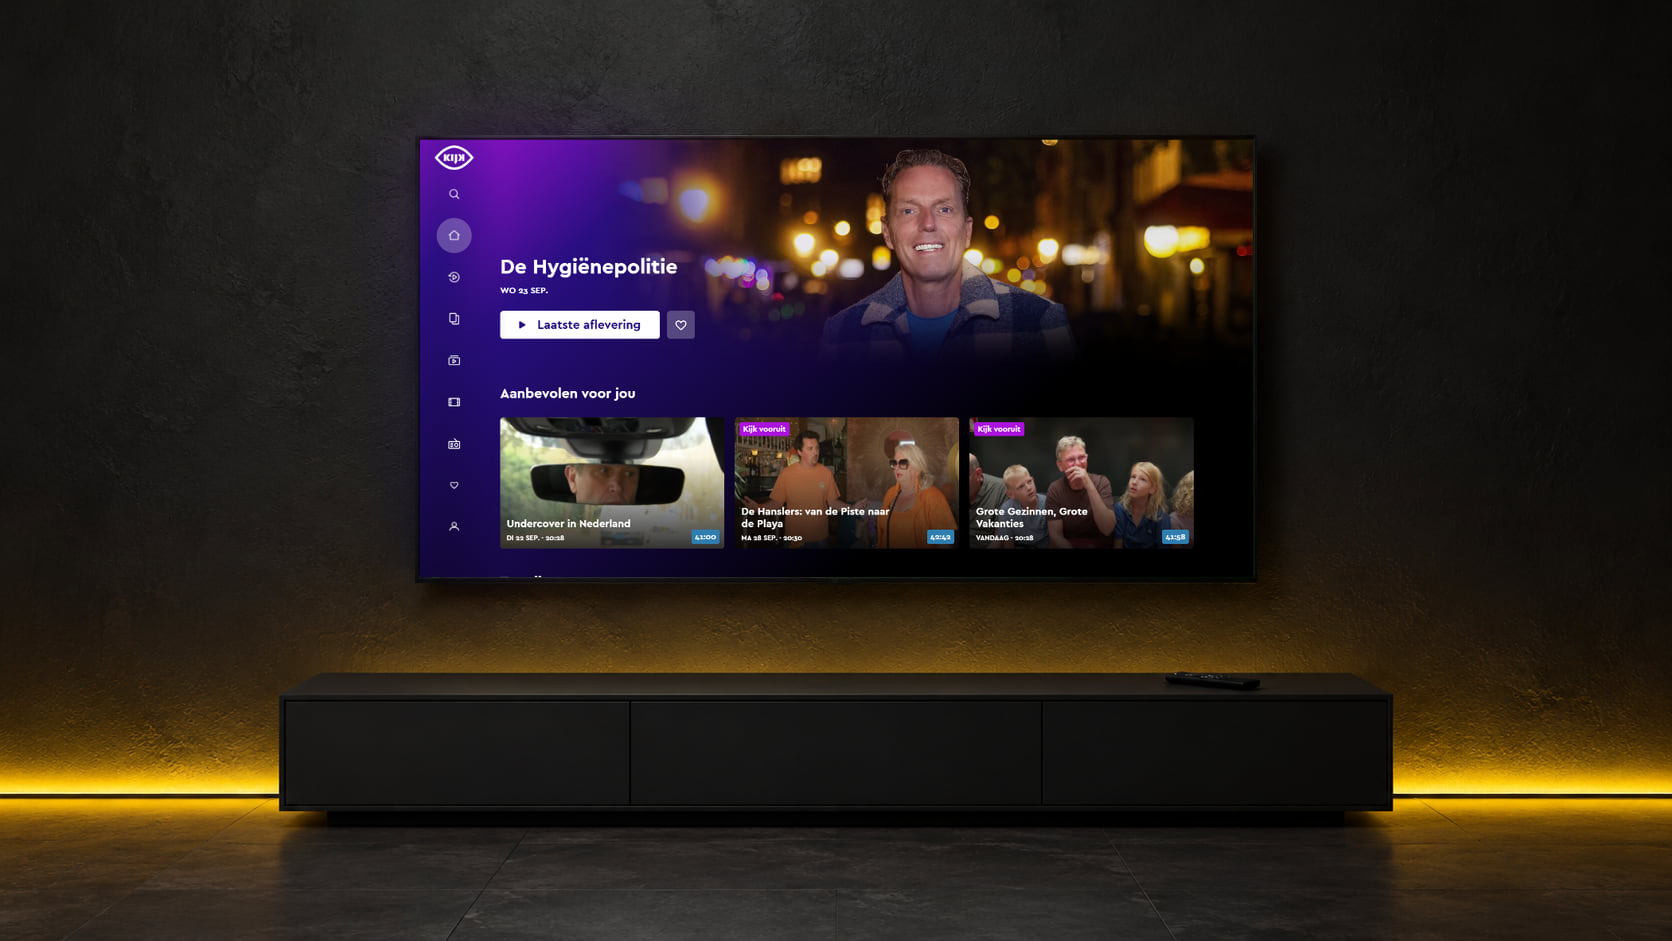
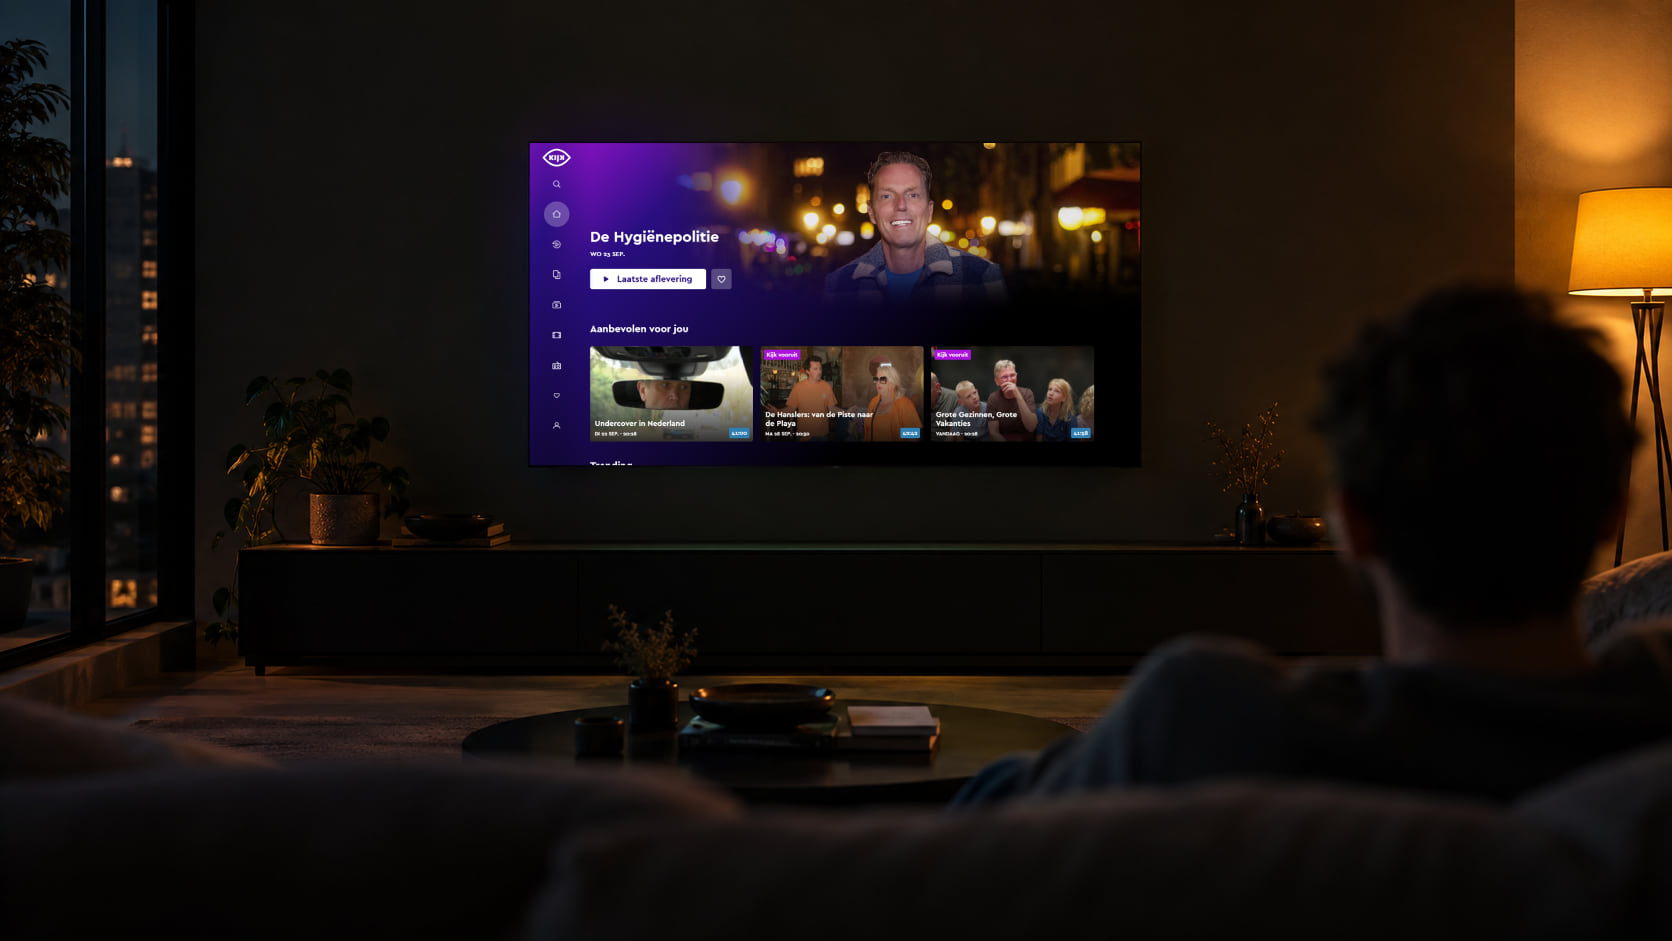
feat(images): round two, the programmes seen from inside a room
Rick chose the second round of scenes: a view from inside a lived-in
room for each programme, with a soft foreground and space around a
smaller screen, instead of a TV on a sideboard seen straight on.

- NLZIET, KIJK and VAMP take them: an evening on the sofa with rain on
  the window, over someone's shoulder late at night, and a jazz stage
  after the last set. On the case study the stage now shows the room
  round the screen, not only the screen.
- Rick's own screenshots are keyed in as before, now through a
  perspective warp, since these screens are seen at an angle.
- Alt texts describe the new pictures.

diff --git a/src/content/work/vamp.md b/src/content/work/vamp.md
@@ -8,7 +8,7 @@ summary: A local-first, offline PWA for sketching chord progressions and looping
 tags: ['SvelteKit', 'Tone.js', 'PWA', 'Web Audio']
 channel: navy
 cover: ../../assets/work/vamp.jpg
-coverAlt: VAMP open on a tablet on a music stand, beside a brass trumpet on a wooden stool, under a warm spotlight.
+coverAlt: VAMP open on a tablet on a music stand on a small jazz stage, with a trumpet on a stool beside it and a drum kit behind.
 order: 3
 links:
   - label: Live app

diff --git a/src/content/work/nlziet.md b/src/content/work/nlziet.md
@@ -8,7 +8,7 @@ summary: Building the NLZIET streaming app across Smart TV platforms in Svelte a
 tags: ['Svelte', 'Connected TV', 'Bitmovin player']
 channel: crimson
 cover: ../../assets/work/nlziet.jpg
-coverAlt: The NLZIET app on a TV on a low sideboard against a deep red wall, a pink light glowing beneath it.
+coverAlt: The NLZIET app on a TV in a living room at night, seen from the sofa, with a deep red wall, a pink lamp and rain on the window.
 order: 1
 ---
 

diff --git a/src/content/work/kijk.md b/src/content/work/kijk.md
@@ -8,7 +8,7 @@ summary: A responsive Smart TV app experience for the KIJK streaming platform ac
 tags: ['Connected TV', 'Advertisements', 'THEOplayer']
 channel: ink
 cover: ../../assets/work/kijk.jpg
-coverAlt: The KIJK app on a TV on a dark wall, a strip of yellow light along the floor below it.
+coverAlt: The KIJK app on a TV in a dark room, seen over the shoulder of someone on the sofa, with a yellow floor lamp in the corner.
 order: 4
 ---
 
